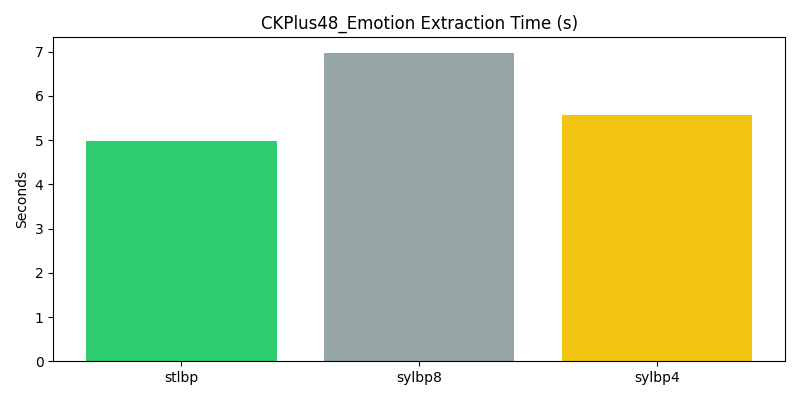
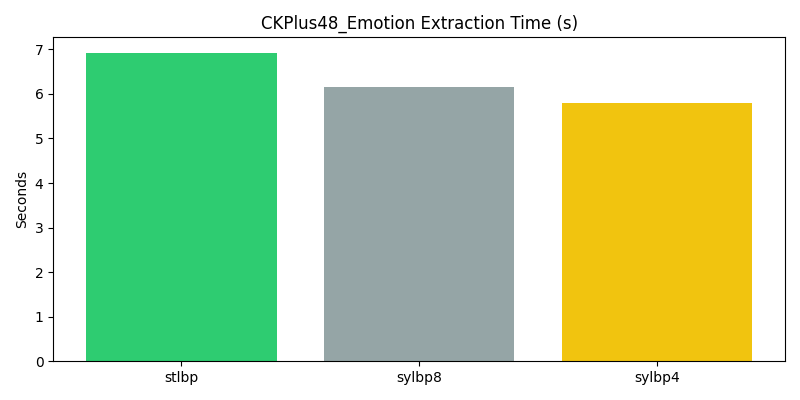
code follow book, add SimpleCascadeClassifier and edit func evaluate, delete func sns, fix main

diff --git a/follow_book.py b/follow_book.py
@@ -1,0 +1,296 @@
+import os, json, time, logging, warnings, platform, tracemalloc, glob
+from datetime import datetime
+import numpy as np
+import matplotlib.pyplot as plt
+from scipy import stats
+from sklearn.metrics import accuracy_score, f1_score, classification_report, confusion_matrix
+from sklearn.model_selection import StratifiedKFold, cross_val_score, train_test_split
+import cv2
+from sklearn.tree import DecisionTreeClassifier
+from sklearn.ensemble import AdaBoostClassifier
+
+warnings.filterwarnings('ignore')
+
+CONFIG={
+    'seed':42, 'blocks':(4,4), 'cv_folds':5,
+    'outdir':'results'
+}
+np.random.seed(CONFIG['seed'])
+os.makedirs(CONFIG['outdir'],exist_ok=True)
+logging.basicConfig(level=logging.INFO,format='%(asctime)s | %(levelname)s | %(message)s')
+
+
+# read local datasets
+
+"""Read volume CK+48 for the Emotion Recognition problem. and return size 48x48"""
+def load_ck_plus_48(dataset_path):
+    X, y = [], []
+    emotions = ['anger', 'contempt', 'disgust', 'fear', 'happy', 'sadness', 'surprise']
+    
+    for label, emotion in enumerate(emotions):
+        folder_path = os.path.join(dataset_path, emotion)
+        if not os.path.exists(folder_path):
+            continue
+            
+        for filename in os.listdir(folder_path):
+            if filename.endswith(".DS_Store"): continue  # skip file DS_Store
+            img_path = os.path.join(folder_path, filename)
+            img = cv2.imread(img_path, cv2.IMREAD_GRAYSCALE)
+            if img is not None:
+                img = cv2.resize(img, (48, 48)) # follow paper's size
+                X.append(img / 255.0)
+                y.append(label)
+                
+    return X, np.array(y)
+
+"""Read CFD and Clutter for the Face Detection problem. Return images of size 64x64."""
+def load_cfd_detection_nested(cfd_images_path, clutter_path, max_faces=1410):
+    
+    X, y = [], []
+    face_count = 0
+    
+    # label 1 - img face
+    sub_datasets = ['CFD', 'CFD-INDIA', 'CFD-MR']
+    for sub_ds in sub_datasets:
+        ds_path = os.path.join(cfd_images_path, sub_ds)
+        if not os.path.exists(ds_path): continue
+            
+        for subject_folder in os.listdir(ds_path):
+            subject_path = os.path.join(ds_path, subject_folder)
+            if not os.path.isdir(subject_path): continue
+                
+            # -N.jpg
+            img_files = glob.glob(os.path.join(subject_path, "*-N.jpg"))
+            if not img_files: img_files = glob.glob(os.path.join(subject_path, "*.jpg"))
+                
+            if img_files:
+                img = cv2.imread(img_files[0], cv2.IMREAD_GRAYSCALE)
+                if img is not None:
+                    img = cv2.resize(img, (64, 64)) # follow paper's size
+                    X.append(img / 255.0)
+                    y.append(1)
+                    face_count += 1
+                    if face_count >= max_faces: break
+        if face_count >= max_faces: break
+
+    # label 0 - img clutter
+    clutter_count = 0
+    if os.path.exists(clutter_path):
+        for filename in os.listdir(clutter_path):
+            if filename.endswith(".DS_Store"): continue  # skip file DS_Store
+            img_path = os.path.join(clutter_path, filename)
+            img = cv2.imread(img_path, cv2.IMREAD_GRAYSCALE)
+            if img is not None:
+                img = cv2.resize(img, (64, 64))
+                X.append(img / 255.0)
+                y.append(0)
+                clutter_count += 1
+                if clutter_count >= face_count: break #
+        
+    return X, np.array(y)
+
+
+# processing lbp and evaluation 
+def preprocess(img):
+    x=(img*255).astype(np.uint8) if img.max()<=1 else img.astype(np.uint8)
+    x=cv2.GaussianBlur(x,(3,3),0)
+    return cv2.createCLAHE(2.0,(8,8)).apply(x)
+
+def neigh(p):
+    return (p[:-2,:-2],p[:-2,1:-1],p[:-2,2:],p[1:-1,2:],p[2:,2:],p[2:,1:-1],p[2:,:-2],p[1:-1,:-2])
+
+def hist(v,b):
+    h,_=np.histogram(v.ravel(),bins=b,range=(0,b)); return h/(h.sum()+1e-9)
+
+def stlbp(im):
+    p=np.pad(im,1,mode='edge'); C=im; P1,P2,P3,P4,P5,P6,P7,P8=neigh(p)
+    code=(P1>=C)+2*(P2>=C)+4*(P3>=C)+8*(P4>=C)+16*(P5>=C)+32*(P6>=C)+64*(P7>=C)+128*(P8>=C)
+    return hist(code,256)
+
+def sylbp8(im):
+    p=np.pad(im,1,mode='edge'); P1,P2,P3,P4,P5,P6,P7,P8=neigh(p)
+    code=(P1>=P5)+2*(P2>=P6)+4*(P3>=P7)+8*(P4>=P8)+16*(P5>=P1)+32*(P6>=P2)+64*(P7>=P3)+128*(P8>=P4)
+    return hist(code,256)
+
+def sylbp4(im):
+    p=np.pad(im,1,mode='edge'); P1,P2,P3,P4,P5,P6,P7,P8=neigh(p)
+    code=(P5>=P1)+2*(P6>=P2)+4*(P7>=P3)+8*(P8>=P4)
+    return hist(code,16)
+
+MAP={'stlbp':stlbp,'sylbp8':sylbp8,'sylbp4':sylbp4}
+
+def check_redundancy(image):
+    p=np.pad(image,1,mode='edge'); P1,P2,P3,P4,P5,P6,P7,P8=neigh(p)
+    d1 = (P1 >= P5).astype(int).ravel()
+    d5 = (P5 >= P1).astype(int).ravel()
+    corr, _ = stats.pearsonr(d1, d5)
+    logging.info(f"Pearson correlation coefficient between H(d1) and H(d5): {corr:.4f}")
+    if corr < -0.9: logging.info("redundancy confirmation: d_i and d_{i+4} are strongly inversely linearly dependent.")
+
+def features(images,method):
+    br,bc=CONFIG['blocks']; bins=256 if method!='sylbp4' else 16
+    X=np.zeros((len(images),br*bc*bins),dtype=np.float32)
+    for n,img in enumerate(images):
+        im=preprocess(img); h,w=im.shape; ys=np.array_split(np.arange(h),br); xs=np.array_split(np.arange(w),bc)
+        ptr=0
+        for ry in ys:
+            for cx in xs:
+                block=im[np.ix_(ry,cx)]
+                X[n,ptr:ptr+bins]=MAP[method](block); ptr+=bins
+    return X
+
+#  ADABOOST CASCADE 
+class SimpleCascadeClassifier:
+    """
+    first floor : 10 weak classifiers
+    second floor : 50 weak classifiers
+    """
+    def __init__(self, random_state=42):
+        # uisng Decision Stump (max_depth=1) for Weak Classifiers
+        stump = DecisionTreeClassifier(max_depth=1)
+        self.stage1 = AdaBoostClassifier(estimator=stump, n_estimators=10, random_state=random_state)
+        self.stage2 = AdaBoostClassifier(estimator=stump, n_estimators=50, random_state=random_state)
+
+    def fit(self, X, y):
+        logging.info("   Training Cascade Stage 1 (10 Stumps)...")
+        self.stage1.fit(X, y)
+        
+        # filter Stage 1
+        stage1_pred = self.stage1.predict(X)
+        
+        # collect Stage 2: 
+        pass_idx = (stage1_pred == 1) | (y == 1)
+        X_stage2 = X[pass_idx]
+        y_stage2 = y[pass_idx]
+        
+        logging.info(f"   Training Cascade Stage 2 (50 Stumps) on {len(X_stage2)} passed samples...")
+        self.stage2.fit(X_stage2, y_stage2)
+
+    def predict(self, X):
+        # first stage prediction
+        pred1 = self.stage1.predict(X)
+        final_pred = np.zeros_like(pred1) # Non-face
+        
+        # only predict with stage 2 for those predicted as face by stage 1
+        pass_idx = (pred1 == 1)
+        if np.any(pass_idx):
+            final_pred[pass_idx] = self.stage2.predict(X[pass_idx])
+            
+        return final_pred
+
+# evaluation 
+def evaluate_cascade(name, images, y, is_binary=True):
+    rows=[]; methods=['stlbp','sylbp8','sylbp4']
+    cv_scores_dict = {} 
+    
+    skf = StratifiedKFold(n_splits=CONFIG['cv_folds'], shuffle=True, random_state=CONFIG['seed'])
+    
+    for m in methods:
+        tracemalloc.start()
+        t=time.time()
+        X = features(images, m)
+        ext_time = time.time()-t
+        current, peak_ram = tracemalloc.get_traced_memory()
+        tracemalloc.stop()
+        peak_mb = peak_ram / (1024 * 1024)
+
+        fold_accs = []
+        t_train_start = time.time()
+        
+        for train_idx, test_idx in skf.split(X, y):
+            Xtr, Xte = X[train_idx], X[test_idx]
+            ytr, yte = y[train_idx], y[test_idx]
+            
+            if is_binary:
+                # Face Detection:  Cascade
+                clf = SimpleCascadeClassifier(random_state=CONFIG['seed'])
+            else:
+                # Emotion:  AdaBoost  
+                stump = DecisionTreeClassifier(max_depth=1)
+                clf = AdaBoostClassifier(estimator=stump, n_estimators=60, algorithm='SAMME', random_state=CONFIG['seed'])
+            
+            clf.fit(Xtr, ytr)
+            fold_pred = clf.predict(Xte)
+            fold_accs.append(accuracy_score(yte, fold_pred))
+            
+        train_time = (time.time() - t_train_start) / CONFIG['cv_folds'] 
+        mean_acc = np.mean(fold_accs)
+        cv_scores_dict[m] = fold_accs
+        
+        Xtr_h, Xte_h, ytr_h, yte_h = train_test_split(X, y, test_size=0.3, stratify=y, random_state=CONFIG['seed'])
+        clf.fit(Xtr_h, ytr_h)
+        pred_h = clf.predict(Xte_h)
+        f1 = f1_score(yte_h, pred_h, average='weighted')
+        
+        logging.info(f"[{m.upper()}] Acc CV: {mean_acc:.4f} | Ext Time: {ext_time:.2f}s | Train Time/Fold: {train_time:.2f}s | RAM: {peak_mb:.2f}MB | Dim: {X.shape[1]}")
+        rows.append({'dataset':name,'method':m,'acc_mean':mean_acc, 'f1':f1,'time':ext_time,'ram_mb':peak_mb,'dim':int(X.shape[1])})
+        
+
+        if m=='sylbp4':
+            cm=confusion_matrix(yte_h, pred_h)
+            plt.figure(figsize=(8,6))
+            plt.imshow(cm, interpolation='nearest', cmap=plt.cm.Blues)
+            plt.title(f'{name} SyLBP4 Confusion Matrix')
+            plt.colorbar(); plt.tight_layout(); plt.ylabel('True label'); plt.xlabel('Predicted label')
+            plt.savefig(os.path.join(CONFIG['outdir'],f'cm_{name}.png'))
+            plt.close()
+            with open(os.path.join(CONFIG['outdir'],f'report_{name}.txt'),'w') as f: f.write(classification_report(yte_h, pred_h))
+
+    t_stat, p_val = stats.ttest_rel(cv_scores_dict['stlbp'], cv_scores_dict['sylbp4'])
+    logging.info(f"StLBP vs SyLBP4 p-value: {p_val:.4f}")
+    if np.isnan(p_val) or p_val > 0.05: 
+        logging.info("--> CONCLUSION: There is no statistically significant difference in Accuracy. SyLBP4 can perfectly replace StLBP.")
+    else: 
+        logging.info("--> CONCLUSION: There is a statistically significant difference.")
+        
+    return rows
+
+def dashboard(all_rows):
+    for ds in sorted(set(r['dataset'] for r in all_rows)):
+        sub=[r for r in all_rows if r['dataset']==ds]; methods=[r['method'] for r in sub]
+        
+        plt.figure(figsize=(8,4)); plt.bar(methods,[r['acc_mean']*100 for r in sub], color=['#3498db','#95a5a6','#e74c3c'])
+        plt.title(f'{ds} Accuracy (%)'); plt.ylabel('%'); plt.ylim(0,105); plt.tight_layout(); plt.savefig(os.path.join(CONFIG['outdir'],f'acc_{ds}.png')); plt.close()
+        
+        plt.figure(figsize=(8,4)); plt.bar(methods,[r['time'] for r in sub], color=['#2ecc71','#95a5a6','#f1c40f'])
+        plt.title(f'{ds} Extraction Time (s)'); plt.ylabel('Seconds'); plt.tight_layout(); plt.savefig(os.path.join(CONFIG['outdir'],f'time_{ds}.png')); plt.close()
+
+        plt.figure(figsize=(8,4)); plt.bar(methods,[r['ram_mb'] for r in sub], color=['#9b59b6','#95a5a6','#e67e22'])
+        plt.title(f'{ds} Memory Usage (MB)'); plt.ylabel('Peak RAM (MB)'); plt.tight_layout(); plt.savefig(os.path.join(CONFIG['outdir'],f'ram_{ds}.png')); plt.close()
+
+def main():
+    meta={'python':platform.python_version()}
+    all_rows=[]
+    redundancy_checked = False
+
+    base_dir = "./datasets"
+    ck_path = os.path.join(base_dir, "CK_Plus_48")
+    cfd_path = os.path.join(base_dir, "CFD_Faces")
+    clutter_path = os.path.join(base_dir, "Clutter_Images")
+
+    # 1. FACIAL EXPRESSION RECOGNITION (CK+48 -> Multi-class AdaBoost)
+    if os.path.exists(ck_path):
+        X_emo, y_emo = load_ck_plus_48(ck_path)
+        if len(X_emo) > 0:
+            if not redundancy_checked:
+                check_redundancy(X_emo[0])
+                redundancy_checked = True
+            all_rows += evaluate_cascade('CKPlus48_Emotion', X_emo, y_emo, is_binary=False)
+    else:
+        logging.error(f"Directory not found: {ck_path}")
+
+    # 2. FACE DETECTION (CFD vs Clutter -> Binary Cascade AdaBoost)
+    if os.path.exists(cfd_path) and os.path.exists(clutter_path):
+        X_det, y_det = load_cfd_detection_nested(cfd_path, clutter_path)
+        if len(np.unique(y_det)) == 2:
+            all_rows += evaluate_cascade('CFD_Detection', X_det, y_det, is_binary=True)
+        else:
+            logging.error("Dataset missing classes.")
+    else:
+        logging.error("Directory not found: CFD_Faces or Clutter_Images.")
+
+    dashboard(all_rows)
+    with open(os.path.join(CONFIG['outdir'],'results.json'),'w') as f: json.dump({'meta':meta,'results':all_rows},f,indent=2)
+
+if __name__=='__main__': 
+    main()
